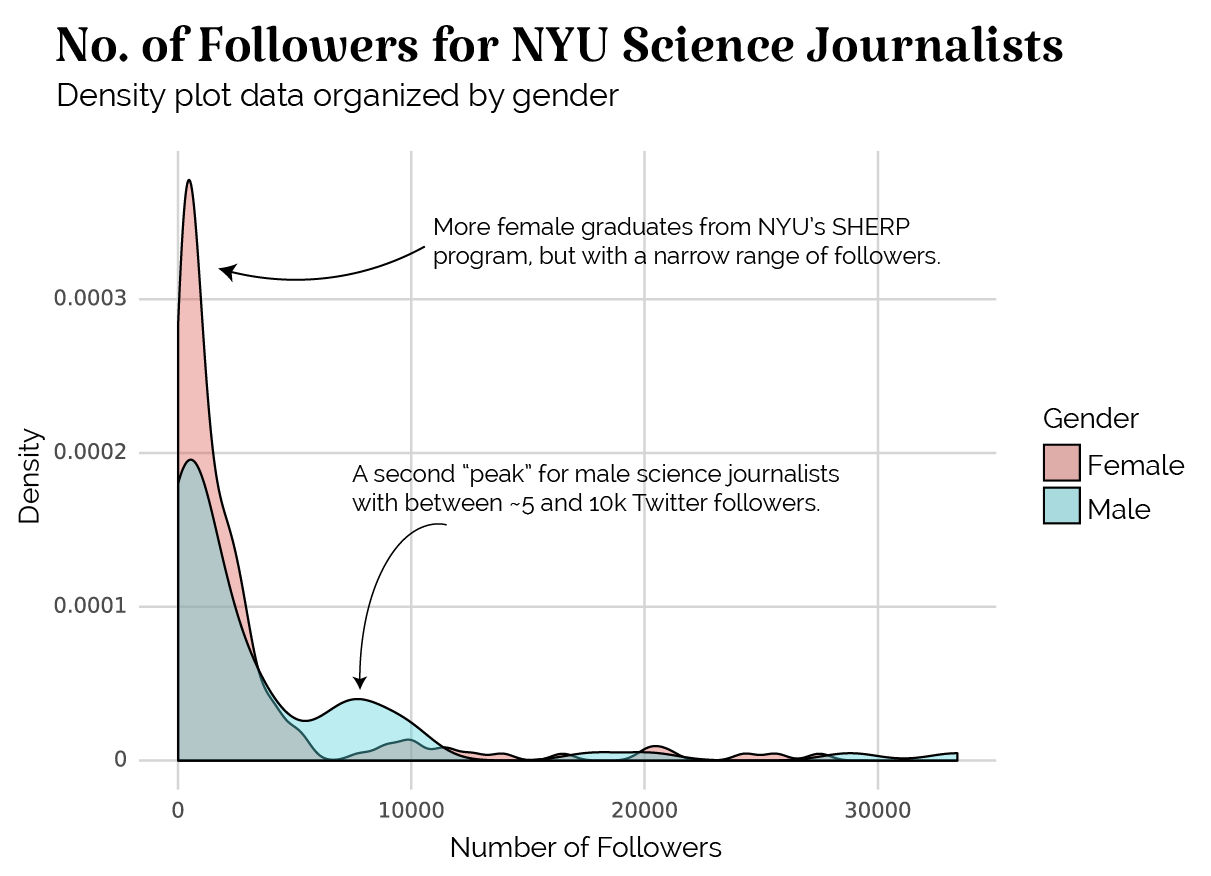
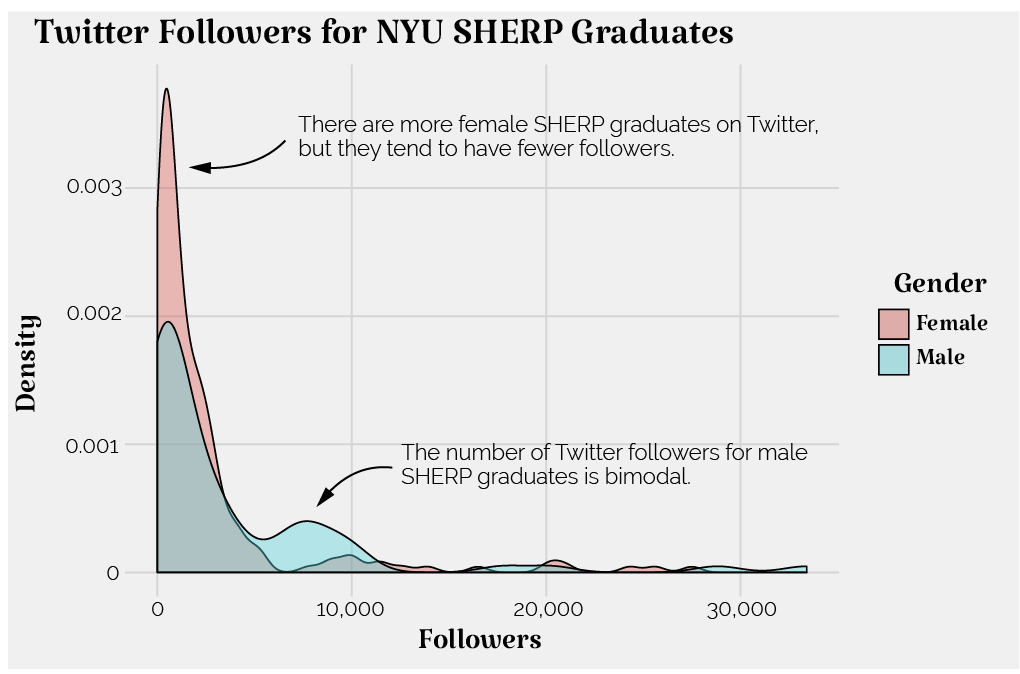
twitter bias post!

diff --git a/blogs/2021/02/sherp-twitter.html b/blogs/2021/02/sherp-twitter.html
@@ -89,6 +89,7 @@
         <div class="u-full-width">
             <a class="button margin-top-40" href="../../../index.html">Return Home</a>
             <h4 class="hero-heading">Twitter Bias for NYU Science Journalists?</h4>
+            <h5>By Niko McCarty</h5>
         </div>
       </div>
     </div>
@@ -98,32 +99,13 @@
       <div class="container">
         <div class="row">
             <div class="eight columns">
-                <p><span class="first-letter">J</span>ournalists describe the world </p>
-                <p></p>
-            </div>
-            <div class="four columns">
-                <p>Testing an aside right here. Does this display?</p>
-            </div>
+                <p><span class="first-letter">A</span> few months ago, while dreaming up story ideas for a health journalism course at NYU, I came across a study about gender disparities—in a medical journal.</p>
+                <p>In that paper, researchers quantified the influence that male and female medical researchers exert on Twitter. The main finding: female medical researchers have a lower number of Twitter followers compared to their male colleagues, and this gap tends to widen as women progress in their careers and are promoted to higher tenure ranks. The paper is called “<a href="https://jamanetwork.com/journals/jamainternalmedicine/fullarticle/2753117" target="_blank">Gender Differences in Twitter Use and Influence Among Health Policy and Health Services Researchers</a>,” and it was published in <em>JAMA Internal Medicine</em> in 2019. The title might be a mouthful, but its findings are deep; its data substantive.</p>
+                <p>For this study, the researchers also analyzed the mean proportion of women who follow women, how many retweets an original tweet garners for men compared to women, and many other things. I highlight some of the surprising or important gender disparities in the table below.</p>
+              </div>
           </div>
       </div>
   </div>
-
-  <div class="section blog-body">
-    <div class="container">
-      <div class="row">
-          <div class="eight columns">
-              <p>In Oct. 2019, a study, published in _JAMA Internal Medicine_, showed that...</p>
-              <p>Some of the study's findings are shown in this table.</p>
-          </div>
-          <div class="four columns">
-              <p>When I say that a study 'found' something, I am referring to a statistically significant difference between the groups. But statistical significance is not a certainty, and there is always a probability associated with these findings being true.</p>
-          </div>
-        </div>
-    </div>
-</div>
-
-  <!-- https://jamanetwork.com/journals/jamainternalmedicine/fullarticle/2753117 -->
-  <!-- Explain how I assigned gender, took every caution that I could, accounting for pronouns if mentioned in a Twitter bio, but may have mistakes. S-->
 
   <table class="container">
     <thead>
@@ -148,40 +130,89 @@
         <td>&#60;.001</td>
       </tr>
       <tr>
-        <td>Average No. of Retweets per Original Tweet</td>
+        <td>Average number of retweets per original tweet</td>
         <td> 3.1 &#177; 3.4</td>
         <td>2.4 &#177; 2.2</td>
         <td>.01</td>
       </tr>
       <tr>
-        <td>No. of Twitter Followers</td>
+        <td>Number of Twitter followers</td>
         <td>1162.3 &#177; 3056.2</td>
         <td>567.5 &#177; 1819.7</td>
         <td>&#60;.001</td>
       </tr>
     </tbody>
+    <tfoot>
+      <tr>
+        <td>Data Source: Jane M. Zhu, MD, et al. "Gender Differences in Twitter Use and Influence Among Health Policy and Health Services Researchers" <em>JAMA Internal Medicine</em>, 2019.</td>
+      </tr>
+    </tfoot>
   </table>
 
-  <div class="section categories">
+  <br>
+
+  <div class="section blog-body">
     <div class="container">
-      <h3 class="section-heading">Responsive Images</h3>
-      <p class="section-description">Skeleton images sit easily in grid with .u-max-full-width class. I suggest exploring solution to serving different images based on device size.</p>
       <div class="row">
-        <div class="ten columns column category">
-          <img class="u-max-full-width" src="../../images/sherp_twitter_density.png">
+          <div class="eight columns">
+              <p>After reading this study, I wondered if the same Twitter "bias" — namely, that women have fewer Twitter followers than men — also applies to other professional fields. As a journalist studying at NYU, I started to explore Twitter data for past graduates of the Science, Health and Environmental Reporting, or <a href="https://journalism.nyu.edu/graduate/programs/science-health-and-environmental-reporting/" target="_blank">SHERP</a>, program. This is a masters program for science journalists.</p>
+              <p>I found a Twitter list called “<a href="https://twitter.com/i/lists/46864545" target="_blank">SHERP Tweeters</a>” that  includes a limited subset of SHERP graduates extending back more than a decade. Then, I used Python and <a href="https://www.tweepy.org/" target="_blank">Tweepy</a> (an open-source Python library for accessing the Twitter API) to collect public data from their accounts. This data was collected on October 10, 2020 and includes the number of each person’s followers, how many people they follow, their Twitter handle, and other basic information. Gender was inferred for each person based on pronouns listed in their public account; it is possible that some people have been mis-gendered, and I apologize if that’s the case.</p> 
+              <p>With the data thus collected and tidied, I plotted two simple scatterplots. In the plots below, each dot represents a person in one of two datasets; the science journalist data that I collected, or the medical researcher data from that <em>JAMA Internal Medicine</em> paper. On the x-axis, I plotted the number of people that each individual is following. Then, on the y-axis, I plotted their number of followers. Overlaid on this scatterplot are regression lines, for both men and women, with a 95% confidence interval shown in a lower opacity. The scatterplots for the two datasets look very similar.</p>
+            </div>
         </div>
+    </div>
+</div>
+
+<div class="section categories">
+  <div class="container">
+    <div class="row">
+      <div class="ten columns column category">
+        <img class="u-max-full-width" src="../../images/sherp_twitter_regressions.png">
       </div>
     </div>
   </div>
+</div>
+
+  <div class="section blog-body">
+    <div class="container">
+      <div class="row">
+          <div class="eight columns">
+              <p>Next, I focused in on the SHERP dataset, and looked solely at differences in the number of followers for male versus female science journalists. The distribution of followers for male SHERP graduates appears bimodal; that is, most men have between 500 and 5,000 Twitter followers, but there is a second group that has between 7,000 and 12,000 followers. For female SHERP graduates, there is only one large peak in the data. The majority of female SHERPies have 1,000 followers or less.</p>
+          </div>
+        </div>
+    </div>
+</div>
+
+<div class="section categories">
+  <div class="container">
+    <div class="row">
+      <div class="ten columns column category">
+        <img class="u-max-full-width" src="../../images/sherp_twitter_density.png">
+      </div>
+    </div>
+  </div>
+</div>
+
+<div class="section blog-body">
+  <div class="container">
+    <div class="row">
+        <div class="eight columns">
+            <p>A density plot — though pretty to look at — doesn't tell us whether or not a significant difference exists between the two groups. To answer that question, I used Python to perform a <a href="https://en.wikipedia.org/wiki/Bootstrapping_(statistics)" target="_blank">bootstrapping</a> analysis. <a href="https://github.com/nikomccarty/dataviz_blog/blob/main/20201002_Twitter_SHERP_Disparities/20210205_bootstrap.ipynb" target="_blank">My code</a> for that statistical analysis (in the form of a Jupyter notebook) can be viewed and downloaded on GitHub.</p>
+            <p>What I found is that there is no statistically significant difference in the number of Twitter followers for male and female SHERP graduates. My null hypothesis was that the two genders have the same number of Twitter followers, and I was not able to reject that hypothesis, using an arbitrary p-value threshold of 0.05. My calculated p-value was 0.084.</p>
+            <p>I'm not comfortable making concrete claims based on a simple statistical test, anyway. The SHERP dataset has all sorts of problems; genders might be misassigned and not all SHERPies are on the list. My dataset is also quite a bit smaller than the medical researcher dataset, and why is 0.05 considered a typical p-value anyway? All I can say, for sure, is that the <em>visual</em> plots show marked differences between male and female science journalists, and their followings on Twitter.</p>
+            <p>Explore the full SHERP dataset for yourself in the interactive scatterplot below. Thanks for reading!</p>
+        </div>
+      </div>
+  </div>
+</div>
 
   <div class="section scatterplot">
     <div class="container">
       <div class="row">
-          <div class="twelve columns">
+          <div class="ten columns">
     
             <div id="wrapper" class="wrapper">
               <h3 class="section-heading">A Catalogue of SHERP Tweeters</h3>
-              <p class="section-description eight columns">How many people follow each SHERP graduate? And how many people do they follow? Note that the scales are not equivalent. (Mobile: Click near a dot to see its details.)</p>
               <div id="tooltip" class="tooltip">
                   <div class="tooltip-details">
                       <span id="name"></span><br>
@@ -190,34 +221,19 @@
                       <span id="following"></span>
                   </div>
               </div>
+              
             </div>
+            <p class="section-description eight columns">How many people follow each SHERP graduate? And how many people do they follow? Note that the scales are not equivalent. (On mobile: Click near a dot to see its details.)</p>
           </div>
       </div>
     </div>
 </div>
 
-<!-- Add a whole footer section; emulate Tufte or Playfair or whoever. Where I got data, how I cleaned it, etc. -->
-<!-- Use this as a guide: http://www.laurabronner.com/quant-editing -->
   <!-- Additional scripts 
   ---------------------------------- -->
   <script src="../../../js/d3.min.js"></script>
   <script src="./js/sherpTwitter.js"></script>
 
-  <!-- <script>
-    async function drawTable() {
-        let dataset = await d3.csv("../../data/pubmed_crispr_papers.csv");
-        $('#myTable').DataTable( {
-            responsive: true,
-            data: dataset,
-            columns: [
-                { data: 'Year',
-                  title: 'Year' },
-                { data: 'Count', title: 'Count' },
-            ],
-        } );
-    }
-    drawTable();
-  </script> -->
   
 <!-- End Document
   –––––––––––––––––––––––––––––––––––––––––––––––––– -->

diff --git a/index.html b/index.html
@@ -65,9 +65,10 @@
         <div class="posts pulled">
           <h1>Data Stories</h1>
           <ul>
-            <li><a href="blogs/2021/01/sparklines.html" target="_blank" rel="noopener noreferrer">Sparklines with D3.js<span class="new">NEW</span></a></li>
-            <li><a href="blogs/2021/01/scroll-tracker.html" target="_blank" rel="noopener noreferrer">Scroll Tracker with D3.js<span class="new">NEW</span></a></li>
-            <li><a href="blogs/2021/01/random-walkers.html" target="_blank" rel="noopener noreferrer">Random Walkers (D3.js and p5.js) <span class="new">NEW</span></a></li>
+            <li><a href="blogs/2021/02/sherp-twitter.html" rel="noopener noreferrer">Twitter Bias for NYU Science Journalists?<span class="new">NEW</span></a></li>
+            <li><a href="blogs/2021/01/sparklines.html" rel="noopener noreferrer">Sparklines with D3.js</a></li>
+            <li><a href="blogs/2021/01/scroll-tracker.html" rel="noopener noreferrer">Scroll Tracker with D3.js</a></li>
+            <li><a href="blogs/2021/01/random-walkers.html" rel="noopener noreferrer">Random Walkers (D3.js and p5.js)</a></li>
         </div>
       </div>
     </div>

diff --git a/blogs/2021/02/js/sherpTwitter.js b/blogs/2021/02/js/sherpTwitter.js
@@ -189,7 +189,7 @@ async function drawScatter() {
         + dimensions.margin.left 
       const tooltipY = yScale(yAccessor(d))
         + dimensions.margin.top
-        + 120;
+        + 180;
   
       tooltip.style("transform", `translate(`
         + `calc( -50% + ${tooltipX}px),`

diff --git a/css/skeleton.css b/css/skeleton.css
@@ -421,6 +421,11 @@ there.
 /* Add Styles */
 
 .first-letter {
-  font-size: 2.5em;
-  font-weight: 700;
+  color: black;
+  float: left;
+  font-size: 75px;
+  line-height: 60px;
+  padding-top: 4px;
+  padding-right: 8px;
+  padding-left: 3px;
 }
